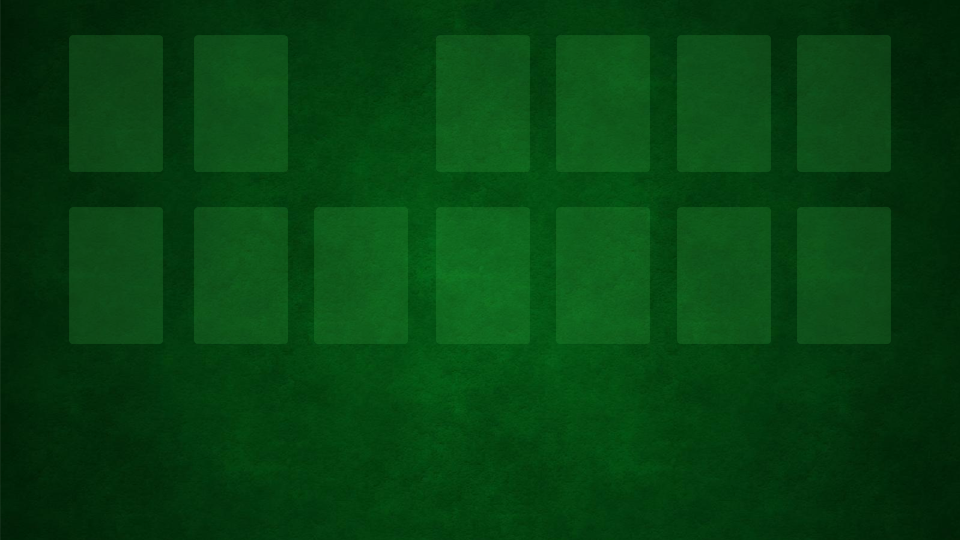
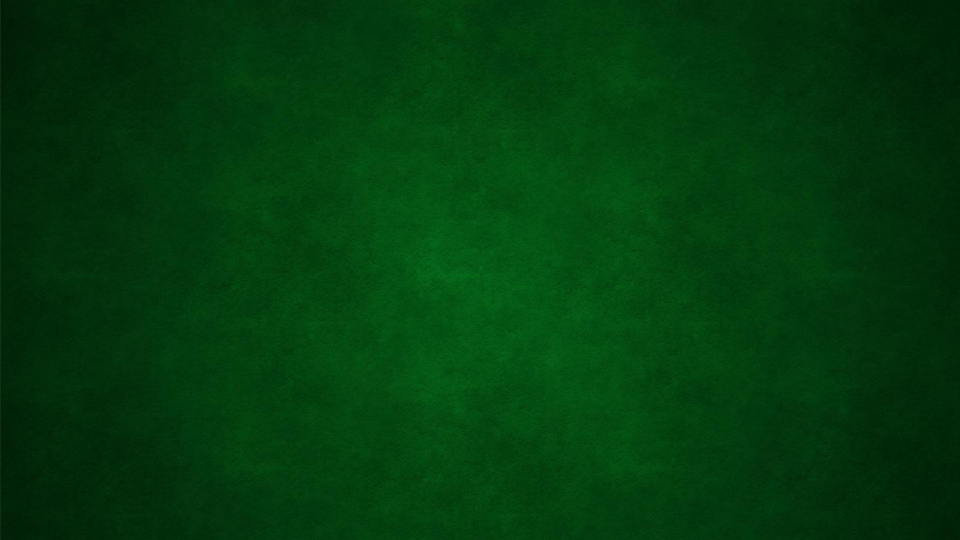
réglage bug fond

diff --git a/JeuDeCartesFinal/src/vue/Gui.java b/JeuDeCartesFinal/src/vue/Gui.java
@@ -94,6 +94,19 @@ public class Gui extends JFrame {
 			e.printStackTrace();
 			// Gérez l'erreur ici (par exemple, en utilisant une police par défaut)
 		}
+		try {
+			// Chemin relatif au fichier de police dans le dossier des ressources
+			File fontFile = new File("src\\Gotham-Black.otf");
+			Font gothamblack = Font.createFont(Font.TRUETYPE_FONT, fontFile).deriveFont(12f);
+			System.out.println("Nom de la police chargée: " + gothamblack.getFontName());
+
+			GraphicsEnvironment ge = GraphicsEnvironment.getLocalGraphicsEnvironment();
+			// Enregistre la police
+			ge.registerFont(gothamblack);
+		} catch (IOException | FontFormatException e) {
+			e.printStackTrace();
+			// Gérez l'erreur ici (par exemple, en utilisant une police par défaut)
+		}
 	}
 
 	public JPanel MainPage() {
@@ -298,7 +311,7 @@ public class Gui extends JFrame {
 		panelSolitaire.setLayout(null);
 
 		// Arrière-plan
-		ImageIcon bgIcon = new ImageIcon("src\\Background.png");
+		ImageIcon bgIcon = new ImageIcon("src\\BackgroundGame.png");
 		JLabel bgLabel = new JLabel(bgIcon);
 		bgLabel.setBounds(0, 0, 960, 540);
 		panelSolitaire.add(bgLabel);
@@ -436,7 +449,7 @@ public class Gui extends JFrame {
 		int cardHeight = cardBackIcon.getIconHeight();
 
 		// Redessine l'arrière-plan sur le panelSolitaire.
-		ImageIcon bgIcon = new ImageIcon("src\\Background.png");
+		ImageIcon bgIcon = new ImageIcon("src\\BackgroundGame.png");
 		JLabel bgLabel = new JLabel(bgIcon);
 		bgLabel.setBounds(0, 0, 960, 540);
 		panelSolitaire.add(bgLabel);
